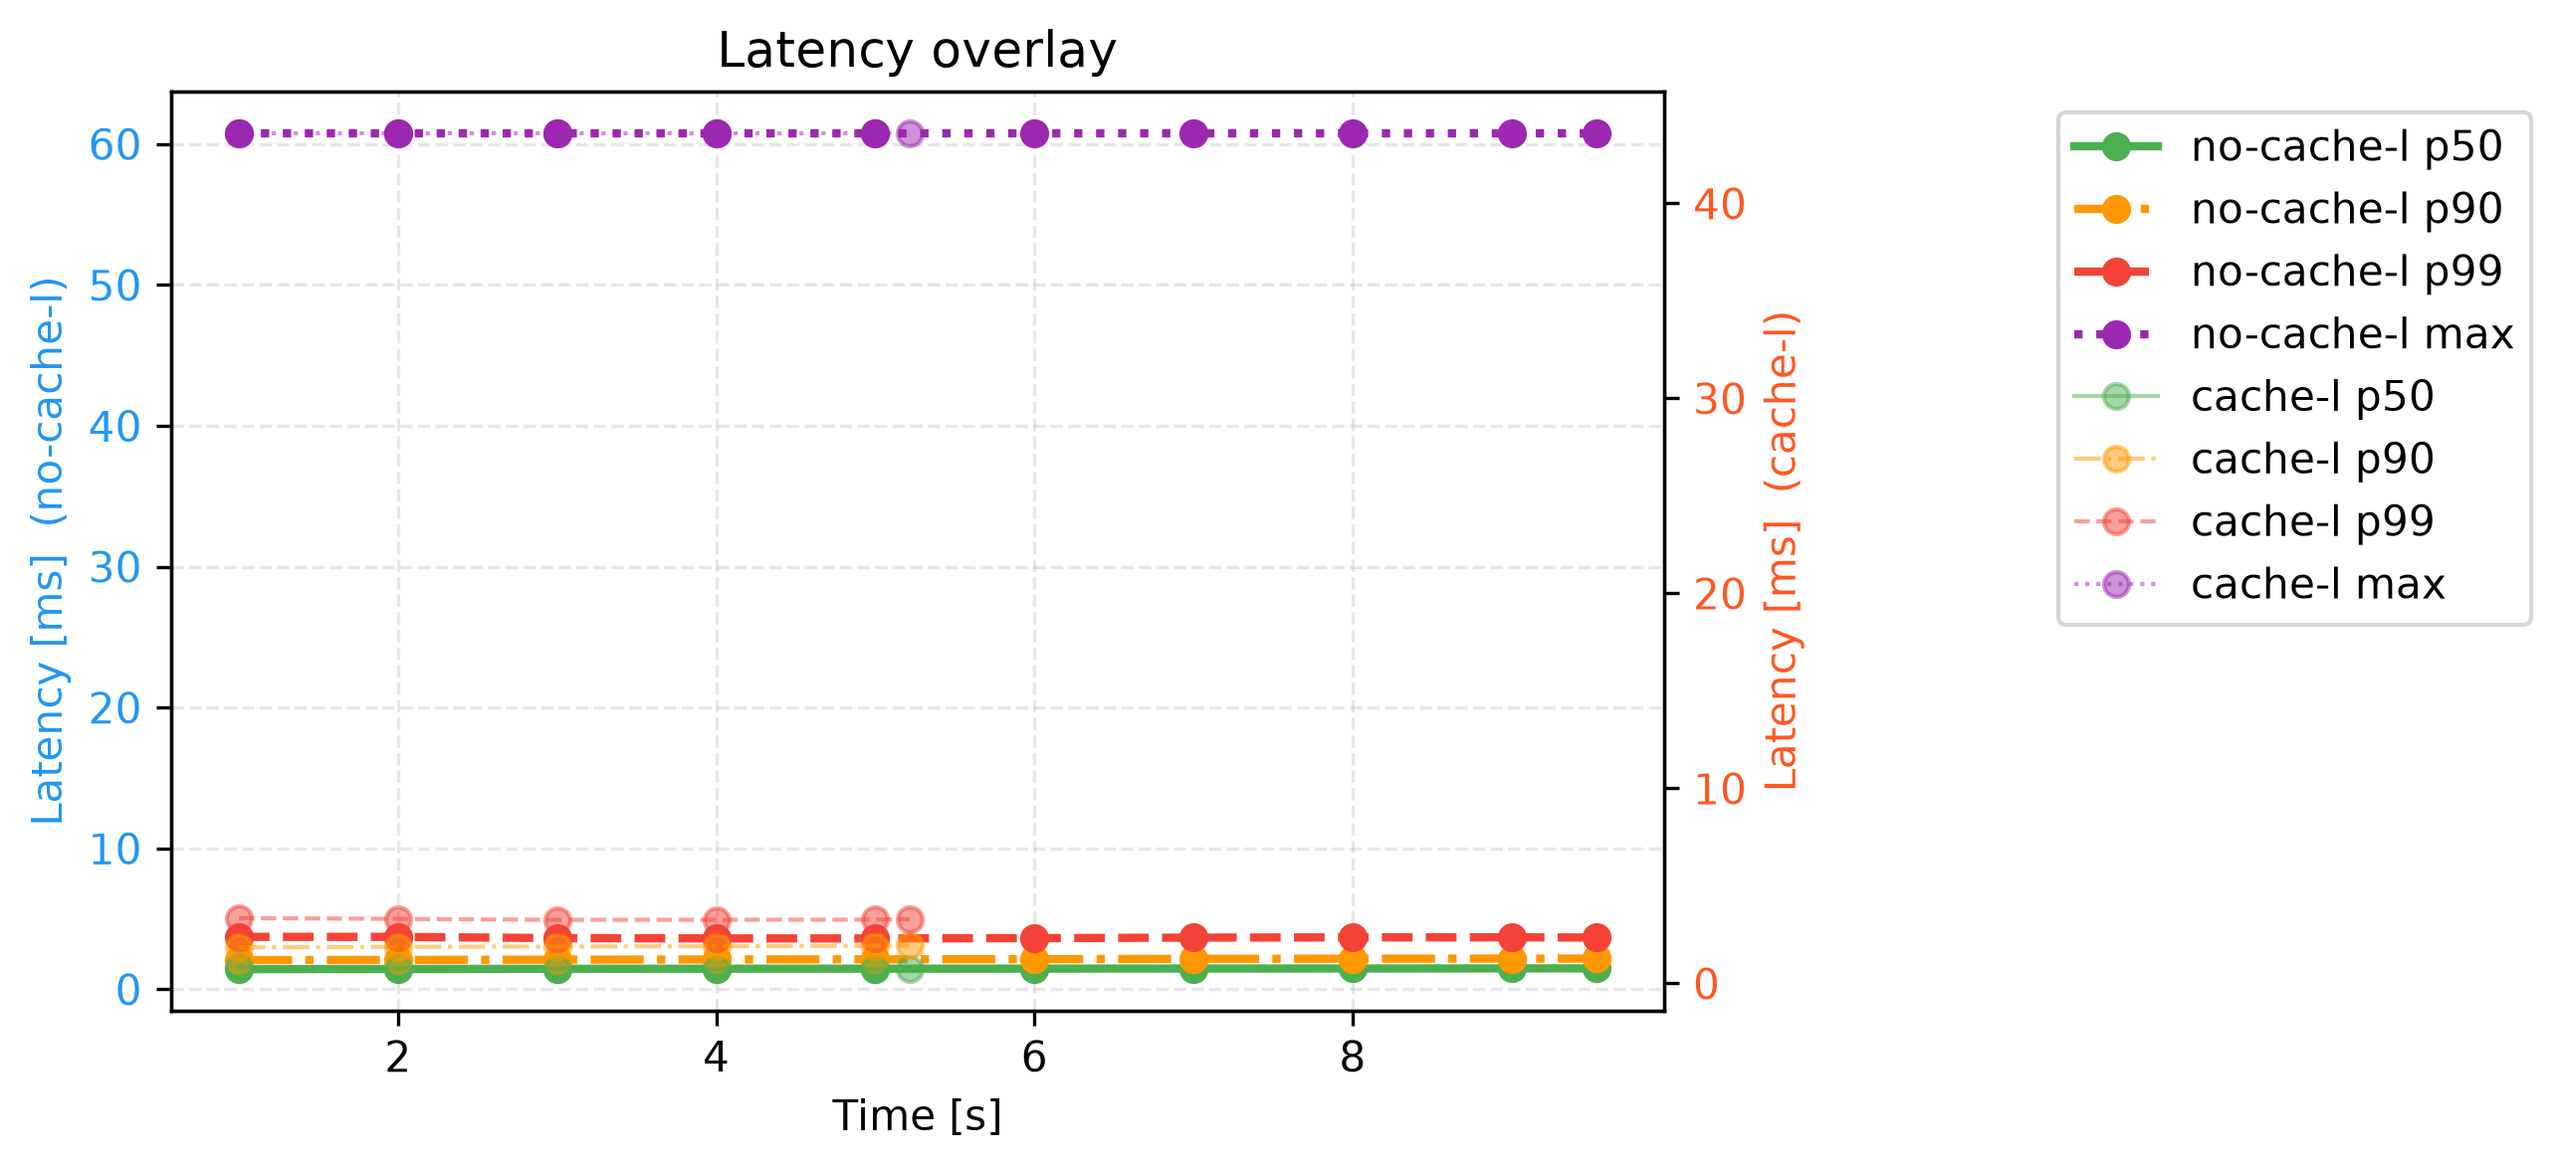
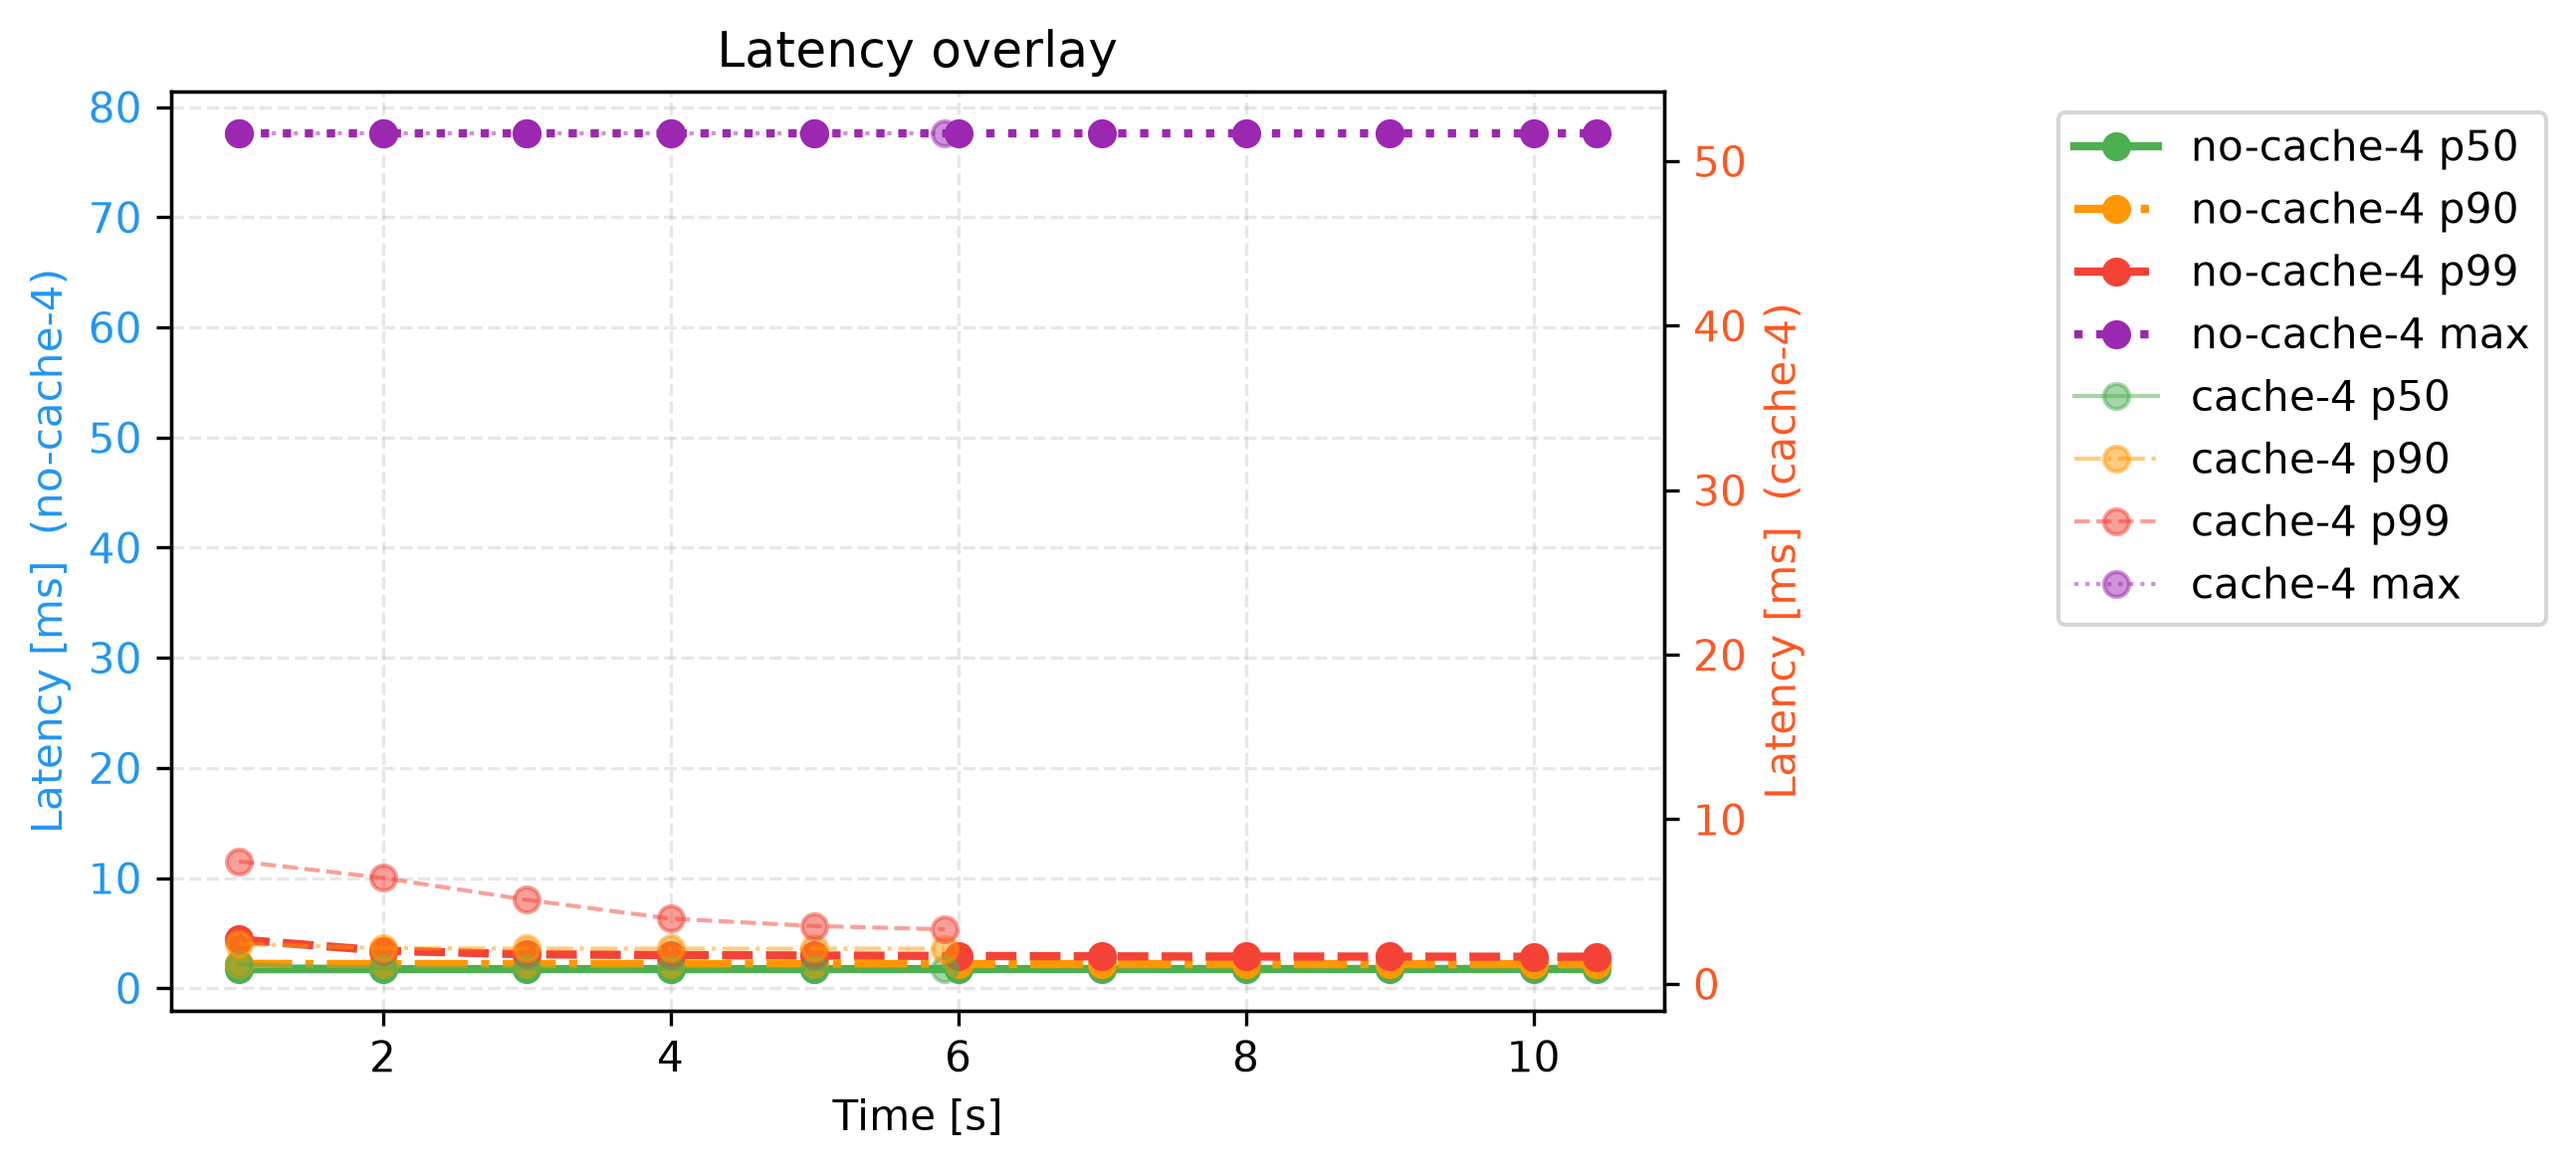
`update plot`

diff --git a/src/bin/workload.rs b/src/bin/workload.rs
@@ -134,7 +134,7 @@ impl Runner {
         let mut csv = {
             let f = File::create(&csv_path)?;
             let mut w = BufWriter::new(f);
-            writeln!(w, "time_s,progress,txns,rate_tps,p50_ms,p90_ms,p99_ms,max")?;
+            writeln!(w, "time_s,progress,txns,throughput,p50_ms,p90_ms,p99_ms,max")?;
             w
         };
 
@@ -144,7 +144,7 @@ impl Runner {
             let mut w = BufWriter::new(f);
             writeln!(
                 w,
-                "experiment,run_id,workload,hosts,concurrency,count,seed,total_time_s,txns,rate_tps,p50_ms,p90_ms,p99_ms,max"
+                "experiment,run_id,workload,hosts,concurrency,count,seed,total_time_s,txns,throughput,p50_ms,p90_ms,p99_ms,max"
             )?;
             w
         };
@@ -217,7 +217,7 @@ impl Runner {
 
                 let progress = hist.len() as f64 / self.count as f64 * 100.0;
                 let txns = hist.len();
-                let rate_tps = hist.len() as f64 / duration_s;
+                let throughput = hist.len() as f64 / duration_s;
 
                 let p50_ms =
                     Duration::from_nanos(hist.value_at_quantile(0.5)).as_secs_f64() * 1000.0;
@@ -232,7 +232,7 @@ impl Runner {
                     format!("{:.1}s", duration_s),
                     progress,
                     txns,
-                    rate_tps,
+                    throughput,
                     p50_ms,
                     p90_ms,
                     p99_ms,
@@ -242,7 +242,7 @@ impl Runner {
                 writeln!(
                     csv,
                     "{:.3},{:.3},{},{:.3},{:.6},{:.6},{:.6},{:.6}",
-                    duration_s, progress, txns, rate_tps, p50_ms, p90_ms, p99_ms, max,
+                    duration_s, progress, txns, throughput, p50_ms, p90_ms, p99_ms, max,
                 )?;
                 csv.flush()?; // keep data even if benchmark aborts
             }
@@ -254,7 +254,7 @@ impl Runner {
         hist.refresh_timeout(Duration::from_secs(0)); // refresh final snapshot
 
         let txns = hist.len();
-        let rate_tps = txns as f64 / total_time_s;
+        let throughput = txns as f64 / total_time_s;
 
         let p50_ms = Duration::from_nanos(hist.value_at_quantile(0.5)).as_secs_f64() * 1000.0;
         let p90_ms = Duration::from_nanos(hist.value_at_quantile(0.9)).as_secs_f64() * 1000.0;
@@ -275,7 +275,7 @@ impl Runner {
             self.seed,
             total_time_s,
             txns,
-            rate_tps,
+            throughput,
             p50_ms,
             p90_ms,
             p99_ms,

diff --git a/plot/plot-overlay.py b/plot/plot-overlay.py
@@ -92,7 +92,7 @@ def main():
     ax1.set_ylabel(f"Throughput [txns/s]  ({labels[0]})", color=exp1_color)
     ax1.plot(
         t_left,
-        vl["rate_tps"],
+        vl["throughput"],
         marker="o",
         markevery=me_left,
         color=exp1_color,
@@ -104,7 +104,7 @@ def main():
     ax2.set_ylabel(f"Throughput [txns/s]  ({labels[1]})", color=exp2_color)
     ax2.plot(
         t_right,
-        vr["rate_tps"],
+        vr["throughput"],
         marker="o",
         markevery=me_right,
         color=exp2_color,

diff --git a/plot/plot-compare.py b/plot/plot-compare.py
@@ -46,7 +46,7 @@ def main():
 
     summaries = [load_summary(f) for f in args.files]
 
-    throughputs = [float(s["rate_tps"]) for s in summaries]
+    throughputs = [float(s["throughput"]) for s in summaries]
     p50 = [float(s["p50_ms"]) for s in summaries]
     p90 = [float(s["p90_ms"]) for s in summaries]
     p99 = [float(s["p99_ms"]) for s in summaries]

diff --git a/plot/plot-throughput.py b/plot/plot-throughput.py
@@ -64,7 +64,7 @@ def main():
     for path, label in zip(args.files, labels):
         data = load_csv(path)
         t = [r["time_s"] for r in data]
-        tps = [r["rate_tps"] for r in data]
+        tps = [r["throughput"] for r in data]
         single = len(t) == 1
         if single:
             val = tps[0]
